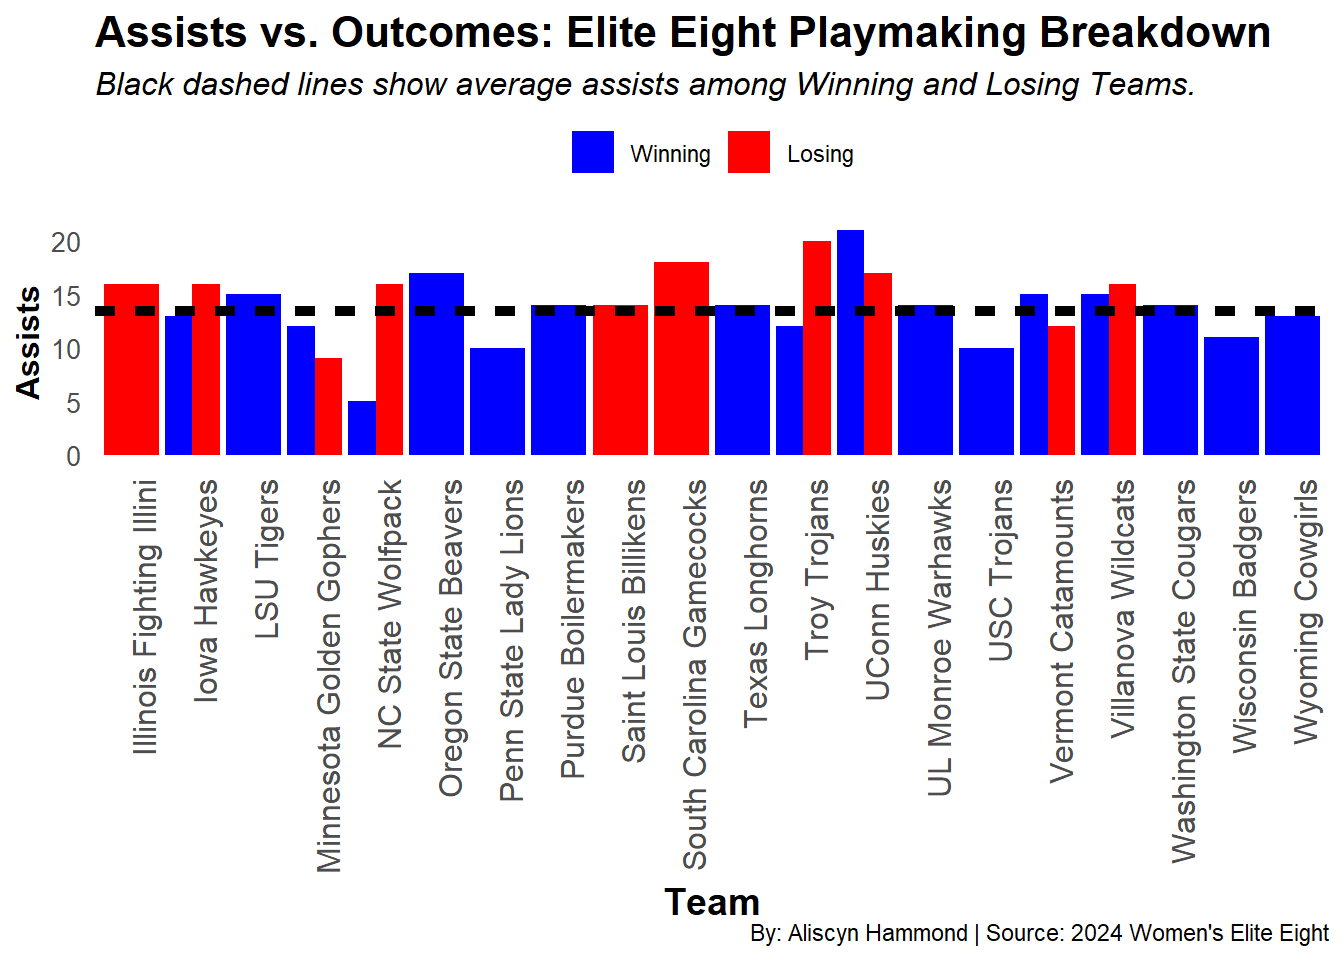
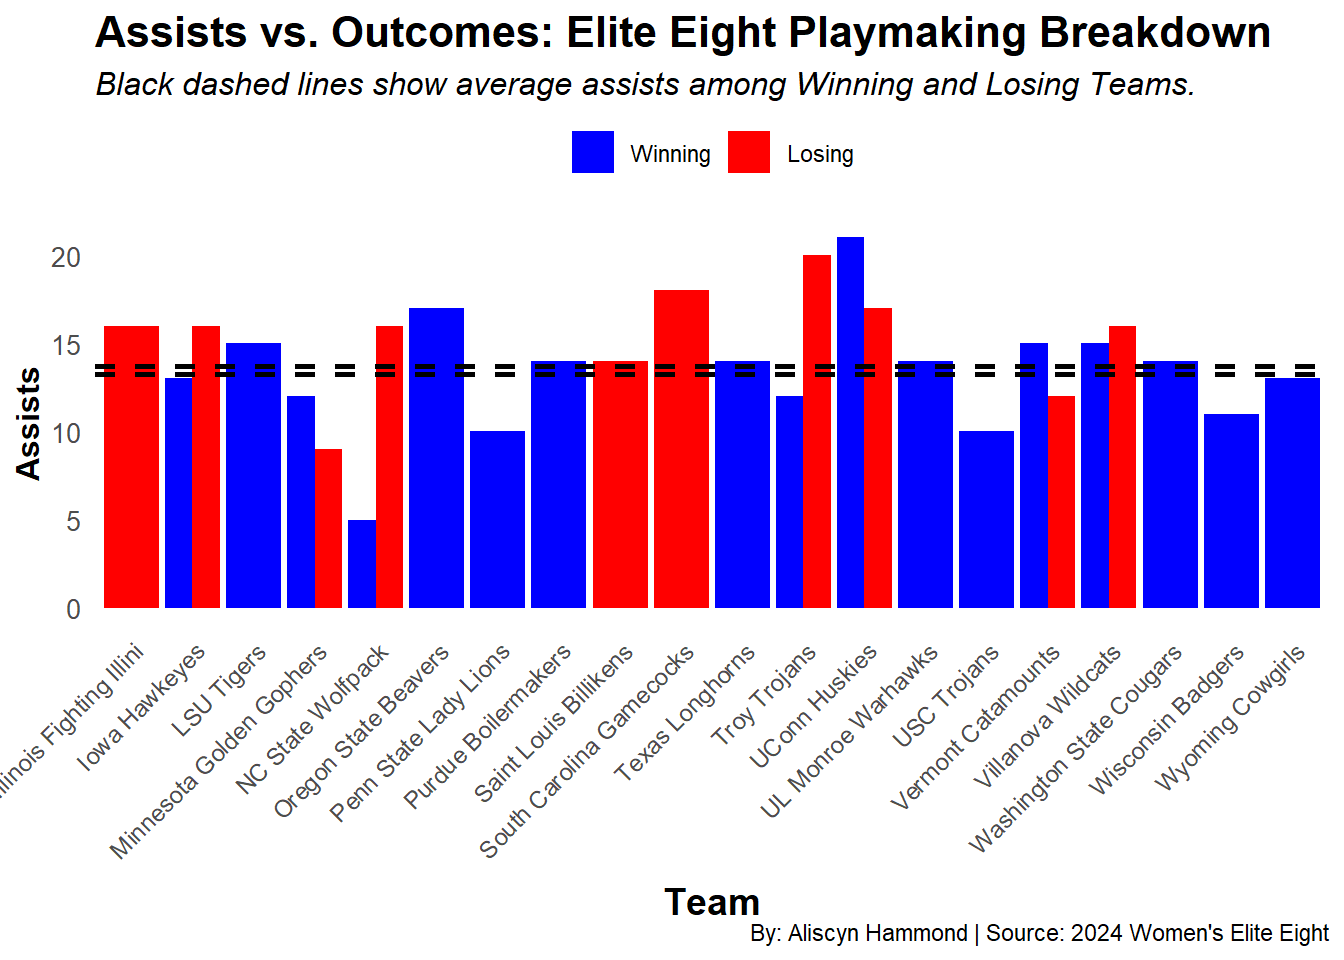
edited my bar chart

diff --git a/posts/elite-eight-women-basketball/index.html b/posts/elite-eight-women-basketball/index.html
@@ -235,7 +235,8 @@ pre > code.sourceCode > span > a:first-child::before { text-decoration: underlin
 <span id="cb1-32"><a href="#cb1-32" aria-hidden="true" tabindex="-1"></a>    <span class="at">legend.text =</span> <span class="fu">element_text</span>(<span class="at">size =</span> <span class="dv">10</span>)</span>
 <span id="cb1-33"><a href="#cb1-33" aria-hidden="true" tabindex="-1"></a>  ) <span class="sc">+</span></span>
 <span id="cb1-34"><a href="#cb1-34" aria-hidden="true" tabindex="-1"></a>  <span class="fu">theme</span>(<span class="at">panel.grid.major =</span> <span class="fu">element_line</span>(<span class="at">color =</span> <span class="st">"gray"</span>, <span class="at">size =</span> <span class="fl">0.5</span>),</span>
-<span id="cb1-35"><a href="#cb1-35" aria-hidden="true" tabindex="-1"></a>        <span class="at">panel.grid.minor =</span> <span class="fu">element_blank</span>())</span></code><button title="Copy to Clipboard" class="code-copy-button"><i class="bi"></i></button></pre></div>
+<span id="cb1-35"><a href="#cb1-35" aria-hidden="true" tabindex="-1"></a>        <span class="at">panel.grid.minor =</span> <span class="fu">element_blank</span>(),</span>
+<span id="cb1-36"><a href="#cb1-36" aria-hidden="true" tabindex="-1"></a>          <span class="at">plot.title.position =</span> <span class="st">"plot"</span>)</span></code><button title="Copy to Clipboard" class="code-copy-button"><i class="bi"></i></button></pre></div>
 <div class="cell-output-display">
 <div>
 <figure class="figure">
@@ -287,11 +288,11 @@ pre > code.sourceCode > span > a:first-child::before { text-decoration: underlin
 <span id="cb2-35"><a href="#cb2-35" aria-hidden="true" tabindex="-1"></a>    <span class="at">plot.subtitle =</span> <span class="fu">element_text</span>(<span class="at">size =</span> <span class="dv">12</span>, <span class="at">face =</span> <span class="st">"italic"</span>),</span>
 <span id="cb2-36"><a href="#cb2-36" aria-hidden="true" tabindex="-1"></a>    <span class="at">axis.title =</span> <span class="fu">element_text</span>(<span class="at">size =</span> <span class="dv">12</span>, <span class="at">face =</span> <span class="st">"bold"</span>),</span>
 <span id="cb2-37"><a href="#cb2-37" aria-hidden="true" tabindex="-1"></a>     <span class="at">axis.title.x =</span> <span class="fu">element_text</span>(<span class="at">size =</span> <span class="dv">14</span>, <span class="at">face =</span> <span class="st">"bold"</span>, <span class="at">hjust =</span> <span class="fl">0.5</span>, <span class="at">vjust =</span> <span class="sc">-</span><span class="dv">1</span>),</span>
-<span id="cb2-38"><a href="#cb2-38" aria-hidden="true" tabindex="-1"></a>    <span class="at">axis.text.x =</span> <span class="fu">element_text</span>(<span class="at">angle =</span> <span class="dv">90</span>, <span class="at">hjust =</span> <span class="dv">1</span>, <span class="at">size =</span> <span class="dv">12</span>),  </span>
+<span id="cb2-38"><a href="#cb2-38" aria-hidden="true" tabindex="-1"></a>    <span class="at">axis.text.x =</span> <span class="fu">element_text</span>(<span class="at">angle =</span> <span class="dv">45</span>, <span class="at">hjust =</span> <span class="dv">1</span>, <span class="at">size =</span> <span class="dv">9</span>),  </span>
 <span id="cb2-39"><a href="#cb2-39" aria-hidden="true" tabindex="-1"></a>    <span class="at">axis.text.y =</span> <span class="fu">element_text</span>(<span class="at">size =</span> <span class="dv">10</span>),</span>
 <span id="cb2-40"><a href="#cb2-40" aria-hidden="true" tabindex="-1"></a>    <span class="at">panel.grid =</span> <span class="fu">element_blank</span>(),</span>
 <span id="cb2-41"><a href="#cb2-41" aria-hidden="true" tabindex="-1"></a>    <span class="at">legend.title =</span> <span class="fu">element_blank</span>(), </span>
-<span id="cb2-42"><a href="#cb2-42" aria-hidden="true" tabindex="-1"></a>    <span class="at">legend.position =</span> <span class="st">"top"</span>  </span>
+<span id="cb2-42"><a href="#cb2-42" aria-hidden="true" tabindex="-1"></a>    <span class="at">legend.position =</span> <span class="st">"top"</span></span>
 <span id="cb2-43"><a href="#cb2-43" aria-hidden="true" tabindex="-1"></a>  )</span></code><button title="Copy to Clipboard" class="code-copy-button"><i class="bi"></i></button></pre></div>
 <div class="cell-output-display">
 <div>

diff --git a/index.html b/index.html
@@ -210,7 +210,7 @@ window.Quarto = {
 
 <div class="quarto-listing quarto-listing-container-default" id="listing-listing">
 <div class="list quarto-listing-default">
-<div class="quarto-post image-right" data-index="0" data-categories="YmFza2V0YmFsbCx3b21lbiBzcG9ydHMsZWxpdGUgZWlnaHQ=" data-listing-date-sort="1731304800000" data-listing-file-modified-sort="1731457347127" data-listing-date-modified-sort="NaN" data-listing-reading-time-sort="7" data-listing-word-count-sort="1328">
+<div class="quarto-post image-right" data-index="0" data-categories="YmFza2V0YmFsbCx3b21lbiBzcG9ydHMsZWxpdGUgZWlnaHQ=" data-listing-date-sort="1731304800000" data-listing-file-modified-sort="1731629133872" data-listing-date-modified-sort="NaN" data-listing-reading-time-sort="7" data-listing-word-count-sort="1338">
 <div class="thumbnail">
 <p><a href="./posts/elite-eight-women-basketball/index.html" class="no-external"></a></p><a href="./posts/elite-eight-women-basketball/index.html" class="no-external">
 <p><img loading="lazy" src="./posts/elite-eight-women-basketball/image.png" class="thumbnail-image"></p>
